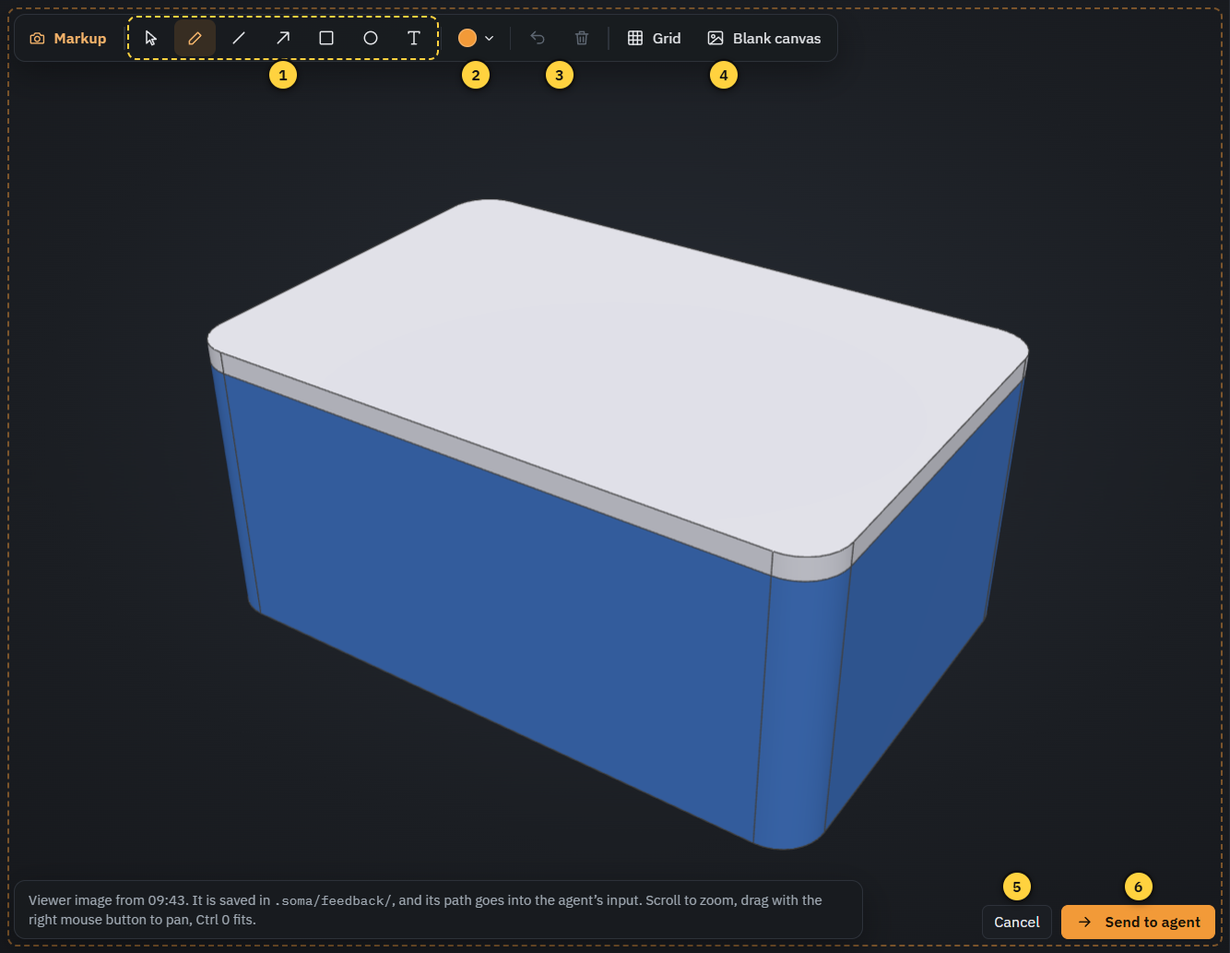
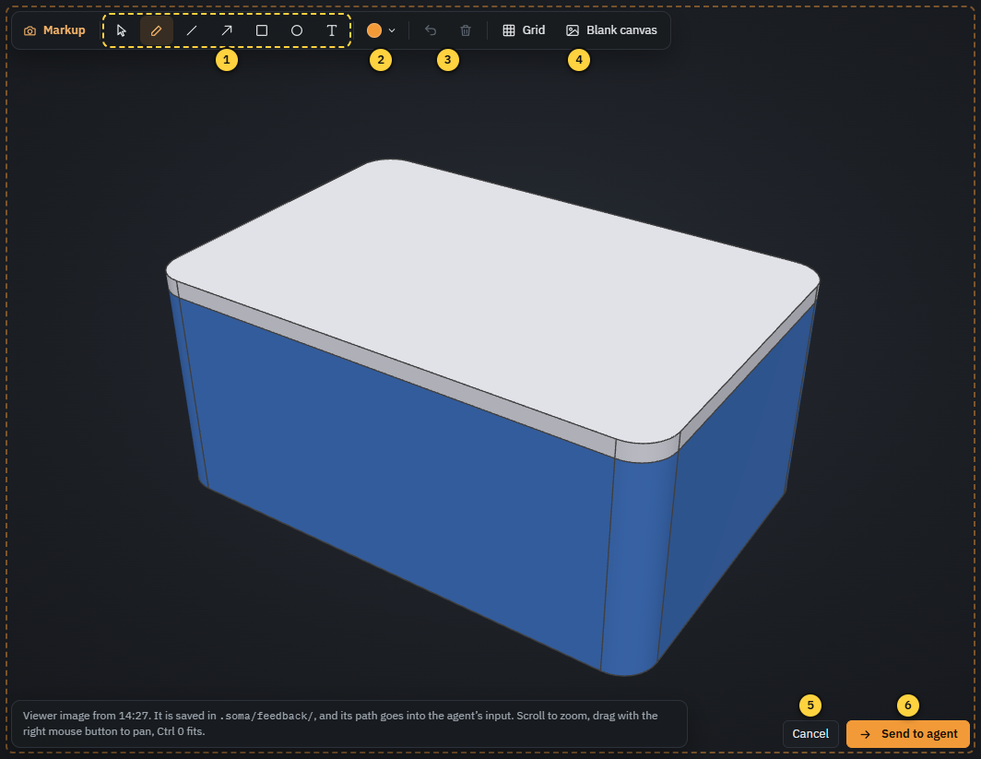
Docs: SOMA AI in the guide with a picture of its chat, Settings page and tutorial
The guide (soma-app.md) gets a section on SOMA AI with chat.png, the new
Settings tab and the twelve tutorial steps. All help pictures taken again.
Changelog, app README and CLAUDE.md name the Settings page, earlier
conversations, lists.mjs, aiparts.ts and aisettings.ts.

diff --git a/app/README.md b/app/README.md
@@ -44,7 +44,7 @@ npm test                # alle außer animation und fem, vier gleichzeitig (test
 npm run test:all        # alle, auch die langsamen animation und fem (je etwa 6 Minuten)
 node test/run-all.mjs smoke editor   # nur diese, nach npm run build
 npm run test:somaai     # SOMA AI (built-in agent, pi) against a fake model (test/mockllm.mjs): start, allowed commands, AGENTS.md and SOMA's addition in the system prompt, image, soma build inside, permission rules, stop, continuing the conversation, ending with the model (21 checks)
-npm run test:aichat     # SOMA AI's chat with the fake model: set-up with an API key, the note before the first message, model menu, a chip from "Send to agent", a question of SOMA AI answered in own words, steps and a permission question in plain words, steps of the same kind as one row, the working indicator and its time, a provider error, the conversation after a model switch, another sign-in and back, signing out (31 checks)
+npm run test:aichat     # SOMA AI's chat with the fake model: set-up with an API key, the note before the first message, model menu and its search, a chip from "Send to agent", questions of SOMA AI (two in one card, one in own words, a single one sent with a click), steps and a permission question in plain words, steps of the same kind as one row, the working indicator and its time, a provider error, the conversation after a model switch, earlier conversations, another sign-in and back, Settings > SOMA AI (sign-ins, models, usage, a model and a key chosen there), signing out (42 checks)
 npm run help:shots      # Bilder der Anleitung neu aufnehmen (resources/help/), nach Änderungen an der Oberfläche
 ```
 
@@ -80,14 +80,14 @@ SOMA_TEST_EXE="$LOCALAPPDATA/soma-dev/release/win-unpacked/SOMA.exe" node test/s
 
 | Pfad | Inhalt |
 |---|---|
-| `src/main/` | Hauptprozess: `projects.ts` (offenes Projekt, Speichern, Öffnen, Verlauf, Wiederherstellen), `git.ts` (mitgeliefertes Git über dugite), `zip.ts` (Modelldatei .soma oder ZIP schreiben und sicher entpacken), `workspace.ts` (UUID-Arbeitsordner, Projektzustand doppelt, Projekt-Check nur melden, geöffnete Ordner in `folders.json`), `folders.ts` (Ordner-Modus „Open folder“: was angelegt und geändert wird, Abschnitt in `AGENTS.md`, Verweis in `CLAUDE.md`, mit Sicherung, E103), `build.ts` (Build als Einmal-Prozess mit Entprellung, Warteschlange, Zeitlimit, ein vorgewärmter Python-Prozess für alle Aufträge der App, gilt der letzte Build noch), `previews.ts` (Build als Vorschau eines Commits ablegen, STEP-Dateien des Projekts für den Viewer umwandeln, Cache nach Inhalt), `measure.ts` (langlebiger Python-Messdienst, `soma serve`), `skills.ts` (Bibliothek aus mitgelieferten und eigenen Skills, Stufen der Skills: Kopie nach `.soma/skills/`, bei Bedarf mit Hinweis, zwei Listen in `AGENTS.md`, Sicherung abweichender Kopien, Prüfung eines Skill-Texts), `help.ts` (Text und Bilder der Anleitung, Bilder nach `.soma/help/` im Projekt, E83), `skilllibrary.ts` (eigene Skills in den App-Daten für die Einstellungen: anlegen, speichern, zurücksetzen, löschen, importieren, mit Sicherung, E78), `settings.ts` (Einstellungen der App in `settings.json`, Kaputtes gemeldet und vor dem Ersetzen gesichert, E81), `log.ts` (Protokoll `logs/soma.log` in den App-Daten: `console.*` des Hauptprozesses und Fehler des Renderers, gescheiterte IPC-Anfragen, Builds, gestartete Agenten mit Version, ungefangene Ausnahmen; Rotation bei 2 MB, 3 alte Dateien), `storage.ts` (Größe der App-Daten je Bereich, Vorschau-Cache leeren, E81), `about.ts` (Versionen, Komponenten mit Lizenz, Python-Pakete aus den Metadaten, Text für Fehlermeldungen, E81), `updates.ts` (neueste Version unter GitHub Releases über `net.fetch`, einmal je Sitzung, abschaltbar, E98), `params.ts` (Werte des Nutzers in `parameters.json` lesen, prüfen und schreiben, E74), `dialogs.ts` (native Dialoge, im Test beantwortbar), `watcher.ts`, `terminals.ts` (node-pty, Projektumgebung, `soma` und `git` im PATH, `PIP_PYTHON`), `packages.ts` (Projektumgebung `.soma/env` anlegen lassen, fehlende Pakete aus `requirements.txt` installieren, E67), `files.ts` (Pfadschutz, Dateien nach `inputs/`, Markierungen nach `.soma/feedback/`, Schreiben aus dem Editor mit Konfliktprüfung und Sicherung), `dxf.ts` (DXF für die Ansicht über `soma dxfview`, nur bei geänderter Datei, E80), `agents.ts`, `somaai.ts` (SOMA AI, the built-in agent: one pi process per open model in RPC mode on the Electron of the app, pi's own folder `somaai/` in the app data, permission extension with SOMA's rules, commands from the chat only from a fixed list, ends with the model), `somaaiauth.ts` (its sign-in: API keys into pi's `auth.json`, "Sign in with ChatGPT" through pi's SDK in `resources/somaai/signin.mjs`, never a key or token to the window), dazu für E58 `bridge.ts` (Verbindung für `soma render`: HTTP auf 127.0.0.1 mit Schlüssel, Adresse und Schlüssel auch in `bridge.json` der App-Daten für Agenten mit fremder Umgebung), `render.ts` (unsichtbares Render-Fenster, Aufträge nacheinander), `animations.ts` (Liste der Animationen und Ergebnisse, Bauen im Hintergrund) |
+| `src/main/` | Hauptprozess: `projects.ts` (offenes Projekt, Speichern, Öffnen, Verlauf, Wiederherstellen), `git.ts` (mitgeliefertes Git über dugite), `zip.ts` (Modelldatei .soma oder ZIP schreiben und sicher entpacken), `workspace.ts` (UUID-Arbeitsordner, Projektzustand doppelt, Projekt-Check nur melden, geöffnete Ordner in `folders.json`), `folders.ts` (Ordner-Modus „Open folder“: was angelegt und geändert wird, Abschnitt in `AGENTS.md`, Verweis in `CLAUDE.md`, mit Sicherung, E103), `build.ts` (Build als Einmal-Prozess mit Entprellung, Warteschlange, Zeitlimit, ein vorgewärmter Python-Prozess für alle Aufträge der App, gilt der letzte Build noch), `previews.ts` (Build als Vorschau eines Commits ablegen, STEP-Dateien des Projekts für den Viewer umwandeln, Cache nach Inhalt), `measure.ts` (langlebiger Python-Messdienst, `soma serve`), `skills.ts` (Bibliothek aus mitgelieferten und eigenen Skills, Stufen der Skills: Kopie nach `.soma/skills/`, bei Bedarf mit Hinweis, zwei Listen in `AGENTS.md`, Sicherung abweichender Kopien, Prüfung eines Skill-Texts), `help.ts` (Text und Bilder der Anleitung, Bilder nach `.soma/help/` im Projekt, E83), `skilllibrary.ts` (eigene Skills in den App-Daten für die Einstellungen: anlegen, speichern, zurücksetzen, löschen, importieren, mit Sicherung, E78), `settings.ts` (Einstellungen der App in `settings.json`, Kaputtes gemeldet und vor dem Ersetzen gesichert, E81), `log.ts` (Protokoll `logs/soma.log` in den App-Daten: `console.*` des Hauptprozesses und Fehler des Renderers, gescheiterte IPC-Anfragen, Builds, gestartete Agenten mit Version, ungefangene Ausnahmen; Rotation bei 2 MB, 3 alte Dateien), `storage.ts` (Größe der App-Daten je Bereich, Vorschau-Cache leeren, E81), `about.ts` (Versionen, Komponenten mit Lizenz, Python-Pakete aus den Metadaten, Text für Fehlermeldungen, E81), `updates.ts` (neueste Version unter GitHub Releases über `net.fetch`, einmal je Sitzung, abschaltbar, E98), `params.ts` (Werte des Nutzers in `parameters.json` lesen, prüfen und schreiben, E74), `dialogs.ts` (native Dialoge, im Test beantwortbar), `watcher.ts`, `terminals.ts` (node-pty, Projektumgebung, `soma` und `git` im PATH, `PIP_PYTHON`), `packages.ts` (Projektumgebung `.soma/env` anlegen lassen, fehlende Pakete aus `requirements.txt` installieren, E67), `files.ts` (Pfadschutz, Dateien nach `inputs/`, Markierungen nach `.soma/feedback/`, Schreiben aus dem Editor mit Konfliktprüfung und Sicherung), `dxf.ts` (DXF für die Ansicht über `soma dxfview`, nur bei geänderter Datei, E80), `agents.ts`, `somaai.ts` (SOMA AI, the built-in agent: one pi process per open model in RPC mode on the Electron of the app, pi's own folder `somaai/` in the app data, permission extension with SOMA's rules, commands from the chat only from a fixed list, ends with the model), `somaaiauth.ts` (its sign-in: API keys into pi's `auth.json`, "Sign in with ChatGPT" through pi's SDK in `resources/somaai/signin.mjs`, never a key or token to the window; the models of the sign-ins and a model folder's conversations through pi's SDK in `resources/somaai/lists.mjs`, also without pi running), dazu für E58 `bridge.ts` (Verbindung für `soma render`: HTTP auf 127.0.0.1 mit Schlüssel, Adresse und Schlüssel auch in `bridge.json` der App-Daten für Agenten mit fremder Umgebung), `render.ts` (unsichtbares Render-Fenster, Aufträge nacheinander), `animations.ts` (Liste der Animationen und Ergebnisse, Bauen im Hintergrund) |
 | `src/preload/` | Schmale, feste Schnittstelle zum Renderer (kein Node-Zugriff dort), `render-preload.ts` für das Render-Fenster |
-| `src/renderer/` | Oberfläche: `main.ts` (Verdrahtung: Kopfzeile mit Spalten-Schaltern, Seitenleiste und Code-Spalte, Reiter Analysis und Animation mit Punkt für Neues, Werkzeuge neben dem Strukturbaum, Menüs, Auswahl, Export, Übergabe an den Agenten auch per Ziehen ins Terminal, Startseite), `viewer.ts` (three.js, Klick auf Code, Ansichten, Drehpunkt, Mausbelegungen und orthografische Kamera (E81), Schnittebene mit gefüllter Schnittfläche und Kontur, verschobene Bauteile der Explosion mit Wegen, Strahltest der Demontage-Analyse mit BVH aus `three-mesh-bvh`, Vorschaubild, Bild für die Markierung), `viewcube.ts` (Ansichtswürfel in 3D), `sectiontool.ts` (Schnitt: Karte, Ebene, Text für den Agenten), `explodetool.ts` (Explosion: Demontage-Analyse mit Baugruppen und schrägen Richtungen, Elternteile, Lage, Abspielen Schritt für Schritt, Karte, Texte für den Agenten), `busy.ts` (Ladeanzeige über dem Viewer mit Fortschritt und Abbrechen, für die Analyse der Explosion), `skills.ts` (Skills in der Seitenleiste: Zeilen mit Stufen-Schalter, Karte daneben mit Einstellungen), `help.ts` (Hilfe über der App: Abschnitte der Anleitung, E83), `tutorial.ts` (geführte Tour, E94: Karte mit Schritt, Titel und Text, oranger Rahmen um das Element, Abdunklung aus vier Flächen, Klicks gehen durch, ohne Element Karte in der Mitte; die zehn Schritte am Modell „Tutorial“), `settings.ts` (Einstellungen über der App mit Reitern, Reiter „Skills“ mit Liste, Markdown-Editor, Vorschau und Prüfung beim Tippen, E78), `settingspages.ts` (Reiter Viewer, Shortcuts, Storage und About, E81), `params.ts` (Parameter in der Seitenleiste: Felder nach Art, Gruppen, Zurücksetzen auf den Wert aus dem Code, E74), `markup.ts` (Zeichenfläche der Markierung, Formen als bearbeitbare Objekte), `measuretool.ts` (Messen: Ablauf, Karte, Text für den Agenten), `tree.ts` (Strukturbaum oben links im Viewer, E82: ohne Hintergrund, Baumstriche, Gruppen, Auge und Transparenz vor dem Namen, Referenzen als Gruppe am Ende, Suche, F3, Mehrfachauswahl, Ziehen über die Augen), `shortcuts.ts` (Liste aller Tasten für den Reiter Shortcuts der Einstellungen), `code.ts` (Code-Spalte mit Editor: CodeMirror 6, Speichern auf Wunsch, Abgleich mit Änderungen des Agenten, Konflikte, Umschalter für Markdown), `dxfview.ts` (DXF-Ansicht im Code-Panel: Pfade auf einer Canvas, Zoom, Layer, Mark up view, E80), `drawings.ts` (Dokument „Drawings“, E97: alle Blätter aus `.soma/drawings/index.json` als ein PDF in der Code-Spalte, Kopf je Blatt, Treffer auf Ansichten und Maße über die Blatt-mm des Index, Karte zur Auswahl), `drawlink.ts` (Zeichnung und 3D: Kamera in Blickrichtung, Schnittebene ins Schnittwerkzeug, Maß als Punkte, Strecke und Maßzahl), `markdown.ts` (Markdown als Dokument: Tokens von `marked` direkt als DOM, ohne `innerHTML`), `filetree.ts` (Dateibaum in der Seitenleiste, offene Datei hervorgehoben), `versions.ts` (Verlaufsleiste), `fileview.ts` (STEP-Datei aus dem Projekt im Viewer: Banner, Neuladen bei Änderung, schließt sich mit der Versionsvorschau aus), `terminals.ts` (xterm.js, Tabs, Einklappen, Einfügen), `chat.ts` (SOMA AI as a chat, the first tab of the agent area: set-up, the note before the first message, steps and questions of the permission extension in plain words, problems with one way out, model menu with the recommended models, chips from "Send to agent", pictures), `ui.ts` (Menüs, Meldungen, Helfer), `icons.ts` (Symbole), `style.css` (Farben mit fester Bedeutung, siehe Kopf der Datei) |
+| `src/renderer/` | Oberfläche: `main.ts` (Verdrahtung: Kopfzeile mit Spalten-Schaltern, Seitenleiste und Code-Spalte, Reiter Analysis und Animation mit Punkt für Neues, Werkzeuge neben dem Strukturbaum, Menüs, Auswahl, Export, Übergabe an den Agenten auch per Ziehen ins Terminal, Startseite), `viewer.ts` (three.js, Klick auf Code, Ansichten, Drehpunkt, Mausbelegungen und orthografische Kamera (E81), Schnittebene mit gefüllter Schnittfläche und Kontur, verschobene Bauteile der Explosion mit Wegen, Strahltest der Demontage-Analyse mit BVH aus `three-mesh-bvh`, Vorschaubild, Bild für die Markierung), `viewcube.ts` (Ansichtswürfel in 3D), `sectiontool.ts` (Schnitt: Karte, Ebene, Text für den Agenten), `explodetool.ts` (Explosion: Demontage-Analyse mit Baugruppen und schrägen Richtungen, Elternteile, Lage, Abspielen Schritt für Schritt, Karte, Texte für den Agenten), `busy.ts` (Ladeanzeige über dem Viewer mit Fortschritt und Abbrechen, für die Analyse der Explosion), `skills.ts` (Skills in der Seitenleiste: Zeilen mit Stufen-Schalter, Karte daneben mit Einstellungen), `help.ts` (Hilfe über der App: Abschnitte der Anleitung, E83), `tutorial.ts` (geführte Tour, E94: Karte mit Schritt, Titel und Text, oranger Rahmen um das Element, Abdunklung aus vier Flächen, Klicks gehen durch, ohne Element Karte in der Mitte; die zehn Schritte am Modell „Tutorial“), `settings.ts` (Einstellungen über der App mit Reitern, Reiter „Skills“ mit Liste, Markdown-Editor, Vorschau und Prüfung beim Tippen, E78), `settingspages.ts` (Reiter Viewer, Shortcuts, Storage und About, E81), `aisettings.ts` (tab SOMA AI: sign-ins, model, usage, safety), `aiparts.ts` (API key form and model menu with search, shared by the chat and Settings), `params.ts` (Parameter in der Seitenleiste: Felder nach Art, Gruppen, Zurücksetzen auf den Wert aus dem Code, E74), `markup.ts` (Zeichenfläche der Markierung, Formen als bearbeitbare Objekte), `measuretool.ts` (Messen: Ablauf, Karte, Text für den Agenten), `tree.ts` (Strukturbaum oben links im Viewer, E82: ohne Hintergrund, Baumstriche, Gruppen, Auge und Transparenz vor dem Namen, Referenzen als Gruppe am Ende, Suche, F3, Mehrfachauswahl, Ziehen über die Augen), `shortcuts.ts` (Liste aller Tasten für den Reiter Shortcuts der Einstellungen), `code.ts` (Code-Spalte mit Editor: CodeMirror 6, Speichern auf Wunsch, Abgleich mit Änderungen des Agenten, Konflikte, Umschalter für Markdown), `dxfview.ts` (DXF-Ansicht im Code-Panel: Pfade auf einer Canvas, Zoom, Layer, Mark up view, E80), `drawings.ts` (Dokument „Drawings“, E97: alle Blätter aus `.soma/drawings/index.json` als ein PDF in der Code-Spalte, Kopf je Blatt, Treffer auf Ansichten und Maße über die Blatt-mm des Index, Karte zur Auswahl), `drawlink.ts` (Zeichnung und 3D: Kamera in Blickrichtung, Schnittebene ins Schnittwerkzeug, Maß als Punkte, Strecke und Maßzahl), `markdown.ts` (Markdown als Dokument: Tokens von `marked` direkt als DOM, ohne `innerHTML`), `filetree.ts` (Dateibaum in der Seitenleiste, offene Datei hervorgehoben), `versions.ts` (Verlaufsleiste), `fileview.ts` (STEP-Datei aus dem Projekt im Viewer: Banner, Neuladen bei Änderung, schließt sich mit der Versionsvorschau aus), `terminals.ts` (xterm.js, Tabs, Einklappen, Einfügen), `chat.ts` (SOMA AI as a chat, the first tab of the agent area: set-up, the note before the first message, steps and questions of the permission extension in plain words, problems with one way out, model menu with the recommended models, chips from "Send to agent", pictures), `ui.ts` (Menüs, Meldungen, Helfer), `icons.ts` (Symbole), `style.css` (Farben mit fester Bedeutung, siehe Kopf der Datei) |
 | `src/renderer/` (E58) | `animdata.ts` (Animation aus der glTF-Datei auswerten), `animtool.ts` (Abspielleiste unten im Bild), `animpanel.ts` (Reiter Animation: Liste mit Videos, Schritte, E82), `overlay.ts` (Untertitel, Beschriftungen, Legende auf einer 2D-Fläche, im Viewer wie im Video), `resultview.ts` und `resulttool.ts` (Ergebnisse farbig, Legende, Leiste und Beschriftungen im Bild), `analysispanel.ts` (Reiter Analysis: Liste und Bericht, E82), `videoview.ts` (Video-Player mit Standbild markieren), `render.html` und `render.ts` (unsichtbares Render-Fenster: Bild, Übersicht, MP4 mit WebCodecs und mediabunny) |
 | `src/shared/` | `help.ts` Anleitung in Abschnitte zerlegen (E83), `types.ts` Typen des IPC-Vertrags, `editable.ts` welche Dateien der Editor nur zeigt (gilt in Renderer und Hauptprozess), `skillname.ts` Kennung eines eigenen Skills aus seinem Namen |
 | `resources/template/` | Vorlage für neue Projekte: `model.py`, `AGENTS.md`, `CLAUDE.md`, `NOTES.md`, `.gitignore` |
 | `resources/skills/` | Mitgelieferte Skills (E17), je eine Markdown-Datei: Kopf mit `title`, `summary`, `topics`, `category` (Überschrift im Panel), `name` und `when` (englisch, für `AGENTS.md`: Name und Anlass), `order`, `default:` (Stufe bei neuen Modellen: `always`, `on-demand` oder `off`) und optional Einstellungen als `var name: Standard \| Einheit \| Bezeichnung \| 10..85` oder `\| a, b=Anzeige`, darunter die Regeln für den Agenten auf Englisch mit Platzhaltern `{{name}}` |
-| `resources/somaai/` | Files of SOMA for pi (SOMA AI): `system.md` (addition to the system prompt: plain words for non-programmers), `soma.ts` (SOMA's pi extension), `signin.mjs` ("Sign in with ChatGPT" with pi's SDK over pipes: pi's own command needs a terminal, which the Electron of the app has not), `LICENSE-pi.txt` (the npm package of pi has none) |
+| `resources/somaai/` | Files of SOMA for pi (SOMA AI): `system.md` (addition to the system prompt: plain words for non-programmers), `soma.ts` (SOMA's pi extension), `signin.mjs` ("Sign in with ChatGPT" with pi's SDK over pipes: pi's own command needs a terminal, which the Electron of the app has not), `lists.mjs` (models of the sign-ins and conversations of a model folder from pi's SDK, offline), `LICENSE-pi.txt` (the npm package of pi has none) |
 | `resources/help/` | Bilder der Anleitung (E83) mit nummerierten Markierungen, erzeugt mit `npm run help:shots` (`test/helpshots.mjs`, Ausschnitte und Nummern in `test/helpshots-spec.mjs`). Der Text ist der Skill `resources/skills/soma-app.md`, die Liste unter jedem Bild nennt dieselben Bezeichnungen wie die Markierungen (`npm run test:unit` prüft das) |
 | `resources/icon.*` | App-Icon (E44) für Fenster und Taskleiste: `icon.svg` als Vorlage, `icon.ico` (16 bis 256 px) und `icon.png`. Neu erzeugen mit `python scripts/make-icon.py` (braucht Edge und Pillow, kleine Größen bekommen einen dickeren Strich) |
 | `../python/soma/` | Hilfsbibliothek und Kommandozeile (`soma build`, `soma export`, `soma glb` für Vorschauen, `soma serve` Messdienst, `soma warm` vorgewärmter Prozess der App, `soma env` und `env.py` Projektumgebung und `requirements.txt` (E67), `measure.py` exakte Werte mit OCC, `fasteners.py` Normteile mit Tabellen aus bd_warehouse in `data/fasteners/`, `cqcompat.py` Kompatibilitätsmodus für CadQuery-Skripte ohne `add_part` (E100), `cqexport.py` mit `soma cadquery export|import` und `cqruntime.py` als Block exportierter Skripte (Apache 2.0, E101), `anim.py` und `animrun.py` Animationen mit `soma anim`, `analysis.py` Auswertungen mit `soma analyze`, `fem.py` Festigkeit mit `soma analyze fem` (gmsh, Kontakt, Schrauben mit Vorspannung, eigener Solver mit pyamg als Rückfall), `ccx.py` CalculiX als Rechenwerk (E84), `render.py` Auftrag an die App für `soma render`, `drawing.py` und `drawrun.py` technische Zeichnungen mit `soma drawing` (E76: HLR aus OCP, DXF mit ezdxf, PDF und PNG über matplotlib, Prüfung), `dxfview.py` DXF für die Ansicht der App mit `soma dxfview` (E80, Zeichenmodul von ezdxf), `gltf.py` GLB-Schreiber, `progress.py` Fortschritt langer Befehle) |

diff --git a/app/resources/skills/soma-app.md b/app/resources/skills/soma-app.md
@@ -6,7 +6,7 @@ order: 9
 category: Way of working
 default: on-demand
 when: the user asks how to do something in the SOMA app, cannot find a button or panel, or asks what a part of the window does
-topics: The window; Start page; Tutorial; The agent; Viewer; Tools; Mark up; Sidebar; Files and code; Saving and history; Export; Settings; When something goes wrong
+topics: The window; Start page; Tutorial; The agent; SOMA AI; Viewer; Tools; Mark up; Sidebar; Files and code; Saving and history; Export; Settings; When something goes wrong
 ---
 # Using SOMA
 
@@ -18,9 +18,9 @@ topics: The window; Start page; Tutorial; The agent; Viewer; Tools; Mark up; Sid
 > instead of guessing. All keyboard shortcuts are listed in the app under Settings, Shortcuts.
 <!-- /agent -->
 
-SOMA is a 3D modeling app where an AI agent writes the model for you. You describe what you want in the agent's
-terminal, the agent writes CadQuery code, and SOMA builds it and shows it in 3D. You check the result, point at
-things, and ask for changes.
+SOMA is a 3D modeling app where an AI agent writes the model for you. You describe what you want to the agent, either
+SOMA AI, the agent built into SOMA, or an agent of your own in a terminal. The agent writes CadQuery code, and SOMA
+builds it and shows it in 3D. You check the result, point at things, and ask for changes.
 
 ## The window
 
@@ -37,7 +37,7 @@ things, and ask for changes.
 9. **Tools**: measure, section, explode and mark up.
 10. **View cube**: click a side, edge or corner to look from there.
 11. **History**: every saved version. Click a dot to look at it.
-12. **Agent**: the terminal where you talk to the agent.
+12. **Agent**: where you talk to the agent, SOMA AI or an agent in a terminal.
 
 The logo at the top left opens the start page.
 
@@ -49,9 +49,9 @@ The logo at the top left opens the start page.
 2. **Open**: opens a .soma or ZIP file (Ctrl O).
 3. **Tutorial**: **Watch video** opens the video tutorial on YouTube in your browser (9 min, from installing to export). **Start tutorial** is a short guided tour of the app with an example model, no agent needed. The cross hides the card.
 4. **Recent**: models you worked on, the newest first. The field above filters them by name. "Open" marks the model that is open right now, "never saved" one that was never saved as a .soma file. The bin on a card removes the model from this computer, a saved .soma file stays.
-5. **Agents**: the agents SOMA found. Any other agent that runs in a terminal works too. You install them yourself, SOMA does not bring one.
+5. **Agents**: the agents for a terminal that SOMA found. Any other agent that runs in a terminal works too. You install them yourself. SOMA AI comes with SOMA and needs no installation (see "SOMA AI").
 6. **Help**: this guide (F1).
-7. **Settings**: viewer, shortcuts, skills, storage and version.
+7. **Settings**: viewer, shortcuts, SOMA AI, skills, storage and version.
 8. **Back to the model**: returns to the open model, it shows the model's name (Esc).
 
 As long as there is no model on this computer, two large cards for a new and an opened model take the place of Recent.
@@ -60,8 +60,9 @@ When a newer version of SOMA is available on GitHub, a small orange label appear
 left. Clicking it opens the download page in your browser; SOMA downloads and installs nothing by itself. If the check
 fails, a grey label says so. Settings > About > **Check for new versions** turns the check off.
 
-**Start tutorial** opens a new example model called "Tutorial" and walks you through the window in ten steps: starting
-the agent, the code, clicking a part, measuring, marking up, parameters, history, saving and export, and help. An orange
+**Start tutorial** opens a new example model called "Tutorial" and walks you through the window in twelve steps: SOMA AI
+and how it works, your own agent instead, the code (you never have to touch it), clicking a part, measuring, marking up,
+parameters, history, saving and export, and help. An orange
 frame shows where to look, and you can try everything right away. Back, Skip and Next move through the steps, Esc ends
 the tour. To see it again, click **Start tutorial** at the top of Help. **Watch video** next to it opens the
 [video tutorial](https://www.youtube.com/watch?v=FJrgMl8ZGKI) on YouTube. If you leave the example model unchanged, it
@@ -71,18 +72,20 @@ disappears like any new model you did not change.
 
 ![Tabs of the agent area](../help/agent.png)
 
-1. **Tabs**: each tab is an agent or a terminal, running in the model folder.
+1. **Tabs**: SOMA AI first, then each agent or terminal, all working in the model folder.
 2. **New tab**: opens the menu below.
-3. **Start agent**: starts one of the agents found on this computer.
-4. **Empty terminal**: a plain command line, for example for `soma build`.
-5. **Copy path for agent app**: copies the model folder. Open it in an agent app such as Claude Desktop or the Codex
+3. **SOMA AI**: brings back the tab of SOMA AI, the agent built into SOMA (see "SOMA AI").
+4. **Start agent**: starts one of the agents found on this computer in a terminal.
+5. **Empty terminal**: a plain command line, for example for `soma build`.
+6. **Copy path for agent app**: copies the model folder. Open it in an agent app such as Claude Desktop or the Codex
    app, and SOMA shows its changes like those of an agent in a tab.
 
 Type your wishes into the agent and press Enter. Everything with **Send to agent** (a part, a measurement, an error,
-a drawing) puts a short note into the agent's input and copies it to the clipboard. Add your own words, then press Enter. You can also drag a file
-from Files into the terminal to name it.
+a drawing) puts a short note into the input of the agent in front and copies it to the clipboard. Add your own words,
+then press Enter. You can also drag a file from Files into a terminal to name it.
 
-The agent works with your user rights. Permissions and safety settings are part of the agent, not of SOMA.
+An agent in a terminal works with your user rights. Its permissions and safety settings are part of the agent, not
+of SOMA. For SOMA AI, see "What SOMA AI may do".
 
 ### Agent apps
 
@@ -96,6 +99,45 @@ Desktop, works instead of an agent in a tab:
 
 **Send to agent** also copies its note to the clipboard: paste it into the agent app. A markup note names its picture in `.soma/feedback/`,
 the agent opens it itself. A plain chat without access to files and commands cannot work on the model.
+
+## SOMA AI
+
+SOMA AI is the agent built into SOMA, for everyone who does not use a coding agent yet. You talk to it in a chat, and
+it shows what it does in plain words instead of code.
+
+The first time, its tab asks for a sign-in. **Sign in with ChatGPT** uses your ChatGPT Plus or Pro plan and opens your
+browser. Or paste an **API key** from Anthropic (Claude), OpenAI, Google Gemini, OpenRouter or OpenCode (Zen or Go),
+billed per use by the provider. **How do I get a key?** opens the page of the provider. The sign-in stays on this
+computer. For the best results we recommend Opus 5.5 (Claude, with an API key) or GPT-6 Astra (with ChatGPT). Before
+the first message, a note names the risks, **Got it** starts the chat.
+
+![SOMA AI](../help/chat.png)
+
+1. **Earlier conversations**: the conversations with SOMA AI in this model, the newest first, with a search. Click one to continue it.
+2. **New conversation**: starts from zero. The earlier one stays in the list.
+3. **Sign-in**: sign out, or use another sign-in.
+4. **Steps**: what SOMA AI did, in plain words. Steps of the same kind become one row with a count. **Details** shows the command, **Show changes** the change in a file.
+5. **Questions**: when SOMA AI needs your decision, it asks all its questions at once. Click an answer or write your own, then **Send answers**. A single question with answers to pick goes with one click. **Skip** lets SOMA AI decide.
+6. **Working**: shows that SOMA AI is working and for how long. Esc in the input stops it. At the end of its answer, "Worked for" says how long it took.
+7. **Add a picture**: a photo or a sketch with measurements. Pasting or dropping a picture into the chat works too.
+8. **Model**: the AI model SOMA AI thinks with. The recommended models come first, the field at the top searches.
+9. **Send and stop**: sends your message (Enter). While SOMA AI works and the input is empty, it stops SOMA AI.
+
+While SOMA AI works you can already type: it reads your message after the current step. **Send to agent** puts a
+part, a measurement or a markup into its input. A build that fails while it works is normal, it fixes the code
+itself. A dot on the tab shows its state: grey not set up, green ready, orange working, yellow waiting for you.
+
+### What SOMA AI may do
+
+SOMA AI works in the model's folder with your permissions on this computer. There it reads, writes and runs commands
+without asking, and every step is saved in the History. It asks you first, in plain words, before it works with files
+outside the model, downloads something or installs software: **Allow**, **Allow until I close the model** or
+**Don't allow**. It never goes back in the History and never reads sign-ins or keys. SOMA stops commands that are known
+to be dangerous, but it cannot catch everything: only give it files from sources you trust. What you type and the files
+it reads go to the provider you signed in with.
+
+Settings > SOMA AI shows the sign-ins, the model, what the conversation of the open model used (tokens, and the cost
+with an API key) and the note about the risks again.
 
 ## Viewer
 
@@ -263,9 +305,10 @@ The folder itself is the model: there is no .soma file to save, and your files s
 
 1. **Viewer**: mouse buttons like in your CAD program, zoom direction, perspective or orthographic, display when a model opens, decimal places of measurements.
 2. **Shortcuts**: all keys and mouse actions.
-3. **Skills**: edit the built-in skills or write your own. They are available in every model.
-4. **Storage**: how much space SOMA's data takes, and clearing the preview cache.
-5. **About**: versions, components and the agents found, the folders of SOMA including its logs, and whether the start page checks GitHub for new versions.
+3. **SOMA AI**: sign in and out, the model SOMA AI thinks with (with a search), what the conversation of the open model used, what SOMA AI may do, and the note about its risks again.
+4. **Skills**: edit the built-in skills or write your own. They are available in every model.
+5. **Storage**: how much space SOMA's data takes, and clearing the preview cache.
+6. **About**: versions, components and the agents found, the folders of SOMA including its logs, and whether the start page checks GitHub for new versions.
 
 ## When something goes wrong
 
@@ -273,4 +316,6 @@ The folder itself is the model: there is no .soma file to save, and your files s
 - **Warning sign next to the model name**: SOMA found a problem in the model folder (for example a missing file). It only reports, it does not repair anything by itself. Ask the agent or fix it yourself.
 - **Building takes long**: turn off "Auto on" in the build status and build with Ctrl B when you are ready.
 - **The agent does not start**: check under "Agents" on the start page whether it is installed.
+- **SOMA AI says the sign-in does not work any more**: the key was removed at the provider, its credit is used up or the plan ended. **Choose a sign-in** on the message, or Settings > SOMA AI, signs in again. Your conversation stays.
+- **SOMA AI stopped unexpectedly**: **Start SOMA AI again** on the message. The conversation and the model are kept.
 - **Reporting a problem**: "Copy system info" under Settings > About copies the versions and the end of SOMA's log, paste it into the bug report. The full log is in the folder "Logs" there. It stays on your computer, SOMA sends nothing by itself.

diff --git a/CLAUDE.md b/CLAUDE.md
@@ -21,9 +21,9 @@ Details in `app/README.md`.
 **`app/`** Electron app
 - `src/main/` main process. Projects: `projects.ts` (save, open, history, export), `git.ts`, `zip.ts`, `workspace.ts`, `folders.ts` ("Open folder", a folder of the user as the model, E103), `files.ts`, `watcher.ts`. Building and display: `build.ts` (prewarmed Python process), `previews.ts` (previews of versions and STEP files from the project), `measure.ts`, `dxf.ts` (E80), `drawings.ts` (document "Drawings", E97), `render.ts` + `bridge.ts` (`soma render`), `animations.ts`. Agent and skills: `terminals.ts`, `agents.ts`, `somaai.ts` (SOMA AI: the built-in agent, pi in RPC mode with a permission extension, one process per open model), `somaaiauth.ts` (its sign-in), `skills.ts`, `skilllibrary.ts` (own skills, E78). Environment: `packages.ts` (project environment, E67), `params.ts` (parameter panel, E74). App: `log.ts` (log file `logs/soma.log` in the app data, also catches `console.*`), `settings.ts`, `storage.ts`, `about.ts` (E81), `updates.ts` (new version on GitHub, E98), `help.ts` (E83), `dialogs.ts`.
 - `src/preload/` the only bridge to the renderer.
-- `src/renderer/` interface, wired up in `main.ts`. Viewer: `viewer.ts`, `viewcube.ts`, `tree.ts` (structure tree, E82), tools `sectiontool.ts`, `explodetool.ts`, `measuretool.ts`, `markup.ts`. Panels: `code.ts`, `pdfview.ts`, `dxfview.ts`, `drawings.ts` + `drawlink.ts` (document "Drawings" and its link to 3D, E97), `markdown.ts`, `filetree.ts`, `versions.ts`, `fileview.ts` (STEP file from the project in the viewer), `terminals.ts`, `chat.ts` (SOMA AI's chat), `params.ts`, `skills.ts`, `help.ts`, `settings.ts` + `settingspages.ts`, `tutorial.ts` (guided tour, E94). Animation and analysis: `animtool.ts`, `animpanel.ts`, `animdata.ts`, `overlay.ts`, `resulttool.ts`, `resultview.ts`, `analysispanel.ts`, `videoview.ts`. Render window: `render.ts`/`render.html`. General: `ui.ts`, `icons.ts`, `busy.ts`, `shortcuts.ts`, `style.css`.
+- `src/renderer/` interface, wired up in `main.ts`. Viewer: `viewer.ts`, `viewcube.ts`, `tree.ts` (structure tree, E82), tools `sectiontool.ts`, `explodetool.ts`, `measuretool.ts`, `markup.ts`. Panels: `code.ts`, `pdfview.ts`, `dxfview.ts`, `drawings.ts` + `drawlink.ts` (document "Drawings" and its link to 3D, E97), `markdown.ts`, `filetree.ts`, `versions.ts`, `fileview.ts` (STEP file from the project in the viewer), `terminals.ts`, `chat.ts` (SOMA AI's chat), `aiparts.ts` (its key form and model menu, also in Settings), `params.ts`, `skills.ts`, `help.ts`, `settings.ts` + `settingspages.ts` + `aisettings.ts` (tab SOMA AI), `tutorial.ts` (guided tour, E94). Animation and analysis: `animtool.ts`, `animpanel.ts`, `animdata.ts`, `overlay.ts`, `resulttool.ts`, `resultview.ts`, `analysispanel.ts`, `videoview.ts`. Render window: `render.ts`/`render.html`. General: `ui.ts`, `icons.ts`, `busy.ts`, `shortcuts.ts`, `style.css`.
 - `src/shared/` `types.ts` (IPC contract), `somaai.ts` (SOMA AI's providers and recommended models), `settings.ts` (defaults, validation, mouse bindings, E81), `editable.ts`, `help.ts`, `skillname.ts`, `version.ts`.
-- `resources/` `template/` (template for user projects incl. `AGENTS.md`), `somaai/` (SOMA AI: addition to pi's system prompt, SOMA's pi extension, the ChatGPT sign-in, pi's license), `skills/` (bundled skills, among them `soma-app.md` as the user guide for help and agent, E83), `help/` (images of the guide), `icon.*` (generated with `scripts/make-icon.py`).
+- `resources/` `template/` (template for user projects incl. `AGENTS.md`), `somaai/` (SOMA AI: addition to pi's system prompt, SOMA's pi extension, the ChatGPT sign-in, lists of models and conversations from pi's SDK, pi's license), `skills/` (bundled skills, among them `soma-app.md` as the user guide for help and agent, E83), `help/` (images of the guide), `icon.*` (generated with `scripts/make-icon.py`).
 - `test/` test suites, CDP client, screenshots. `SOMA_TEST_EXE` runs them against a packaged app.
 - `electron-builder.config.cjs` installation packages, `build-resources/` large icon for them. CI for all three systems in `.github/workflows/dist.yml`, checks for pull requests and pushes in `checks.yml`.
 

diff --git a/CHANGELOG.md b/CHANGELOG.md
@@ -8,7 +8,7 @@ the version is bumped.
 
 ### Added
 
-- SOMA AI: an agent built into SOMA, for everyone without a coding agent of their own. It is a chat instead of a terminal, the first tab of the agent area. Sign in with ChatGPT or with an API key (Anthropic, OpenAI, Google Gemini, OpenRouter, OpenCode Zen or Go), describe the part or add a photo of a sketch, and follow what it does in plain words, with the time it has been working. When it needs to know something, it asks with answers to click or in your own words. It stays in the model's folder: looking at or changing files outside it, downloading and installing software ask you first, dangerous commands are stopped. A note before the first message names the risks. "Send to agent" in the viewer puts the part, measurement or markup into its input. For the best results we recommend Opus 5.5 or GPT-6 Astra. Behind it is pi (pi.dev, MIT), which comes with SOMA. Agents in a terminal such as Claude Code work as before.
+- SOMA AI: an agent built into SOMA, for everyone without a coding agent of their own. It is a chat instead of a terminal, the first tab of the agent area. Sign in with ChatGPT or with an API key (Anthropic, OpenAI, Google Gemini, OpenRouter, OpenCode Zen or Go), describe the part or add a photo of a sketch, and follow what it does in plain words, with the time it has been working. When it needs to know something, it asks all its questions at once, with answers to click or in your own words. Earlier conversations of a model can be continued. The model menu has a search. Settings > SOMA AI shows the sign-ins, the model, what a conversation used and what SOMA AI may do. The tutorial introduces SOMA AI, shows in the + menu how to use your own agent instead, and says that you never have to touch the code. It stays in the model's folder: looking at or changing files outside it, downloading and installing software ask you first, dangerous commands are stopped. A note before the first message names the risks. "Send to agent" in the viewer puts the part, measurement or markup into its input. For the best results we recommend Opus 5.5 or GPT-6 Astra. Behind it is pi (pi.dev, MIT), which comes with SOMA. Agents in a terminal such as Claude Code work as before.
 - Play or pause static FEM deformation in Analysis. Solved colors and values stay fixed during the shape cycle. On narrow canvases, compact controls flow into rows while the close button stays visible. Thanks to Ryan Hailey (fork RyanHailey21/SOMA, issue #12).
 - "As one STEP file" in the Export menu: the whole model in a single STEP file with its groups as sub-assemblies, part names and colors, for other CAD programs. Purchased parts such as screws are included, reference parts too, in a group "Reference". On the command line: `soma export --assembly --format step` (issue #11).
 - Video tutorial on YouTube (9 min, from installing to export): "Watch video" on the start page card and at the top of Help opens it in your browser.
